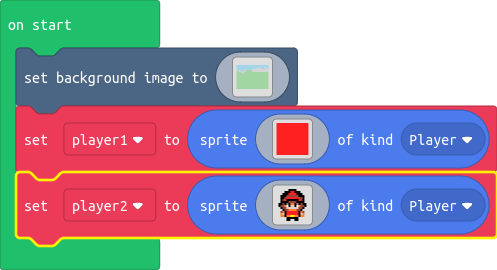
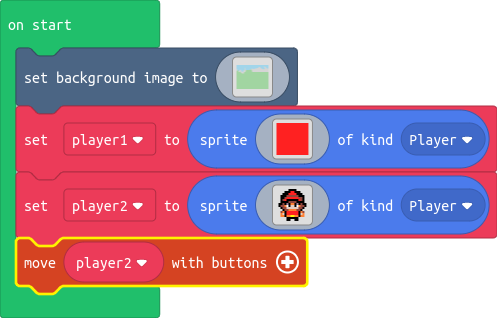
Dar movimiento al sprite jugador - fin clase 2

diff --git a/main.ts b/main.ts
@@ -292,3 +292,4 @@ let player2 = sprites.create(img`
 . . . . . f f f f f f . . . . . 
 . . . . . f f . . f f . . . . . 
 `, SpriteKind.Player)
+controller.moveSprite(player2)
